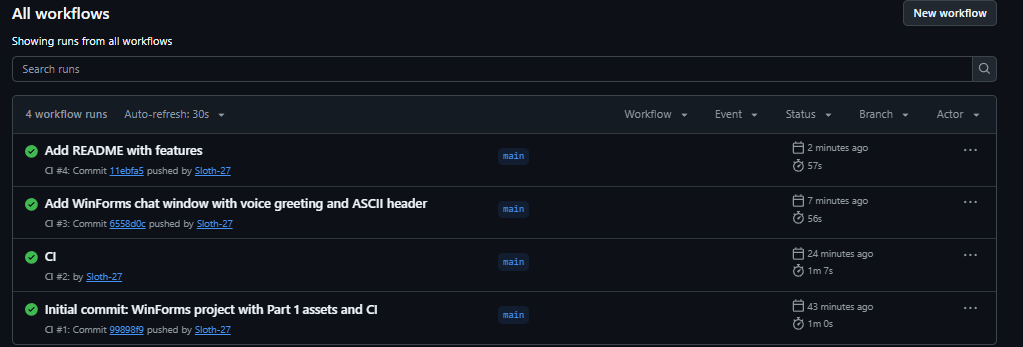
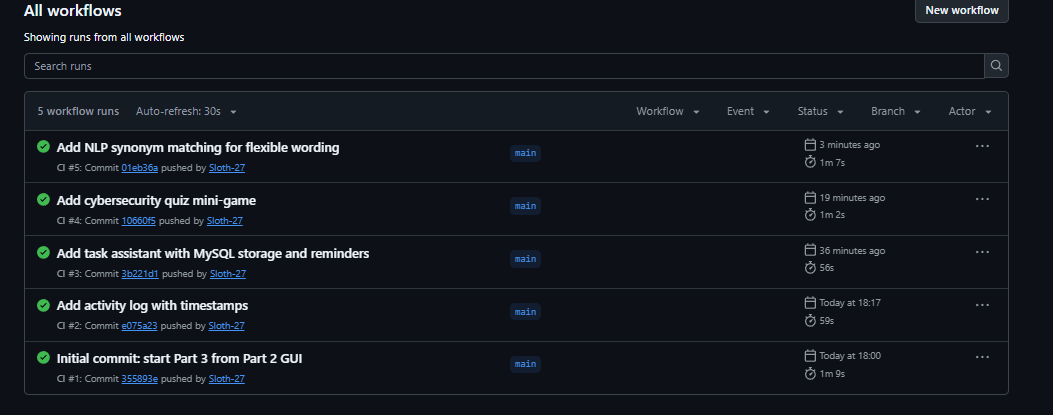
Update README for Part 3 and add CI screenshot

diff --git a/README.md b/README.md
@@ -1,19 +1,33 @@
-# Cybersecurity Awareness Bot (GUI)
+# Cybersecurity Awareness Bot (Part 3 / POE)
 
-A WinForms chatbot that teaches you about cybersecurity.
+A WinForms chatbot that teaches users about cybersecurity.
 
 ## Features
 - Voice greeting and ASCII art header
-- Keyword recognition (password, phishing, scam, privacy)
-- Random tips for each topic
+- Keyword recognition and random tips (password, phishing, scam, privacy)
 - Memory of the user's name and favourite topic
 - Sentiment detection (worried, curious, frustrated)
-- Follow ups like "tell me more"
-- Dictionary and list based responses, ready for Part 3
+- Task assistant with reminders, stored in a MySQL database
+- Cybersecurity quiz (13 questions, multiple choice and true/false)
+- NLP simulation using synonyms and keyword detection
+- Activity log with timestamps
 
-## How to run 
-1. Install the .NET SDK
-2. Run `dotnet run` in the project folder
+## How to run
+1. Install the .NET SDK and MySQL Server
+2. Create the database: run `CREATE DATABASE chatbot_db;` then create the `tasks` table (see below)
+3. Set your MySQL password in `TaskManager.cs`
+4. Run `dotnet run` in the project folder
+
+## Database setup
+```sql
+CREATE TABLE tasks (
+    id INT AUTO_INCREMENT PRIMARY KEY,
+    title VARCHAR(200) NOT NULL,
+    description VARCHAR(500),
+    reminder_date DATE NULL,
+    is_completed BOOLEAN NOT NULL DEFAULT FALSE
+);
+```
 
 ## CI Status
-![CI passing] (Assets/ci-passing.png)
+![CI passing](Assets/ci-passing.png)
